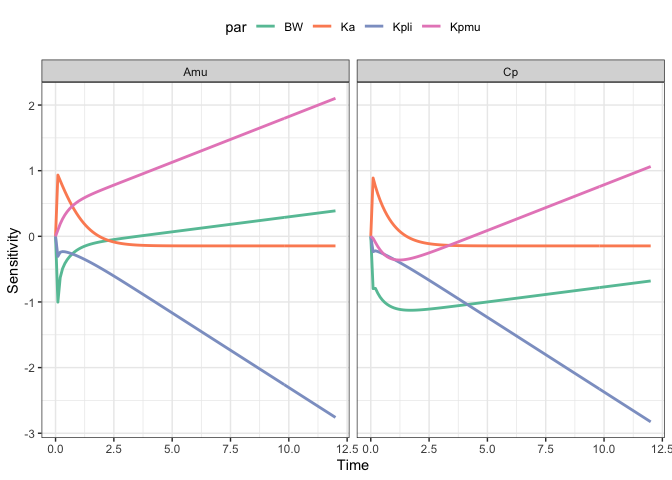
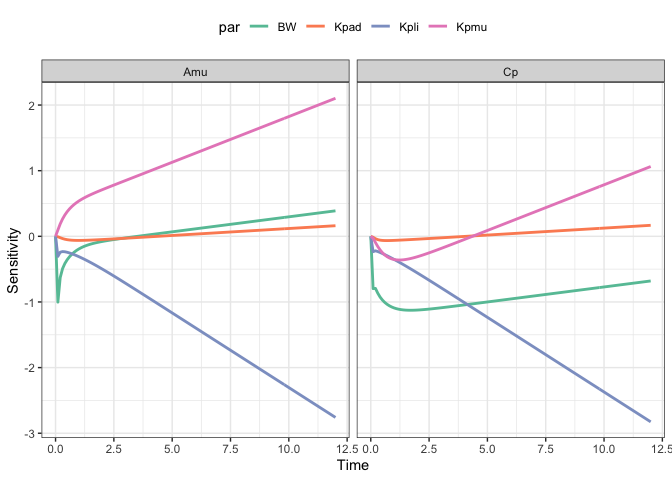
coerce simulated data to data frame

diff --git a/README.md b/README.md
@@ -3,8 +3,8 @@ local sensitivity analysis with mrgsolve
 
 # Model
 
-Load the vera package and a model from the mrgsolve package. We increase
-the tolerance a bit as well as the maximum step size.
+Load the vera package and a PBPK model from the mrgsolve package. We
+decrease the tolerance a bit as well as the maximum step size.
 
 ``` r
 library(vera)
@@ -26,21 +26,26 @@ fun <- function(p,dose) {
   mod %>% 
     param(p) %>% 
     ev(dose) %>% 
-    mrgsim_df()
+    mrgsim()
 }
 
 d <- ev(amt = 100)
+
+fun(param(mod),d) %>% plot(Cp+Amu~time)
 ```
+
+![](man/images/readme-unnamed-chunk-2-1.png)<!-- -->
 
 # Sensitivity analysis
 
 Use `vera::lsa()`. We pick the paramters that we want to fiddle with
 (`par`) and the output that we want to look at (`Cp` and `Amu` - the
 amount in the muscle compartment). `d` gets passed through to the
-function as `dose`.
+function as
+`dose`.
 
 ``` r
-out <- lsa(mod, fun, par = "Kpli,Kpmu,BW,Ka", var = "Cp,Amu", dose = d)
+out <- lsa(mod, fun, par = "Kpli,Kpmu,Kpad,BW", var = "Cp,Amu", dose = d)
 ```
 
 # Ouput
